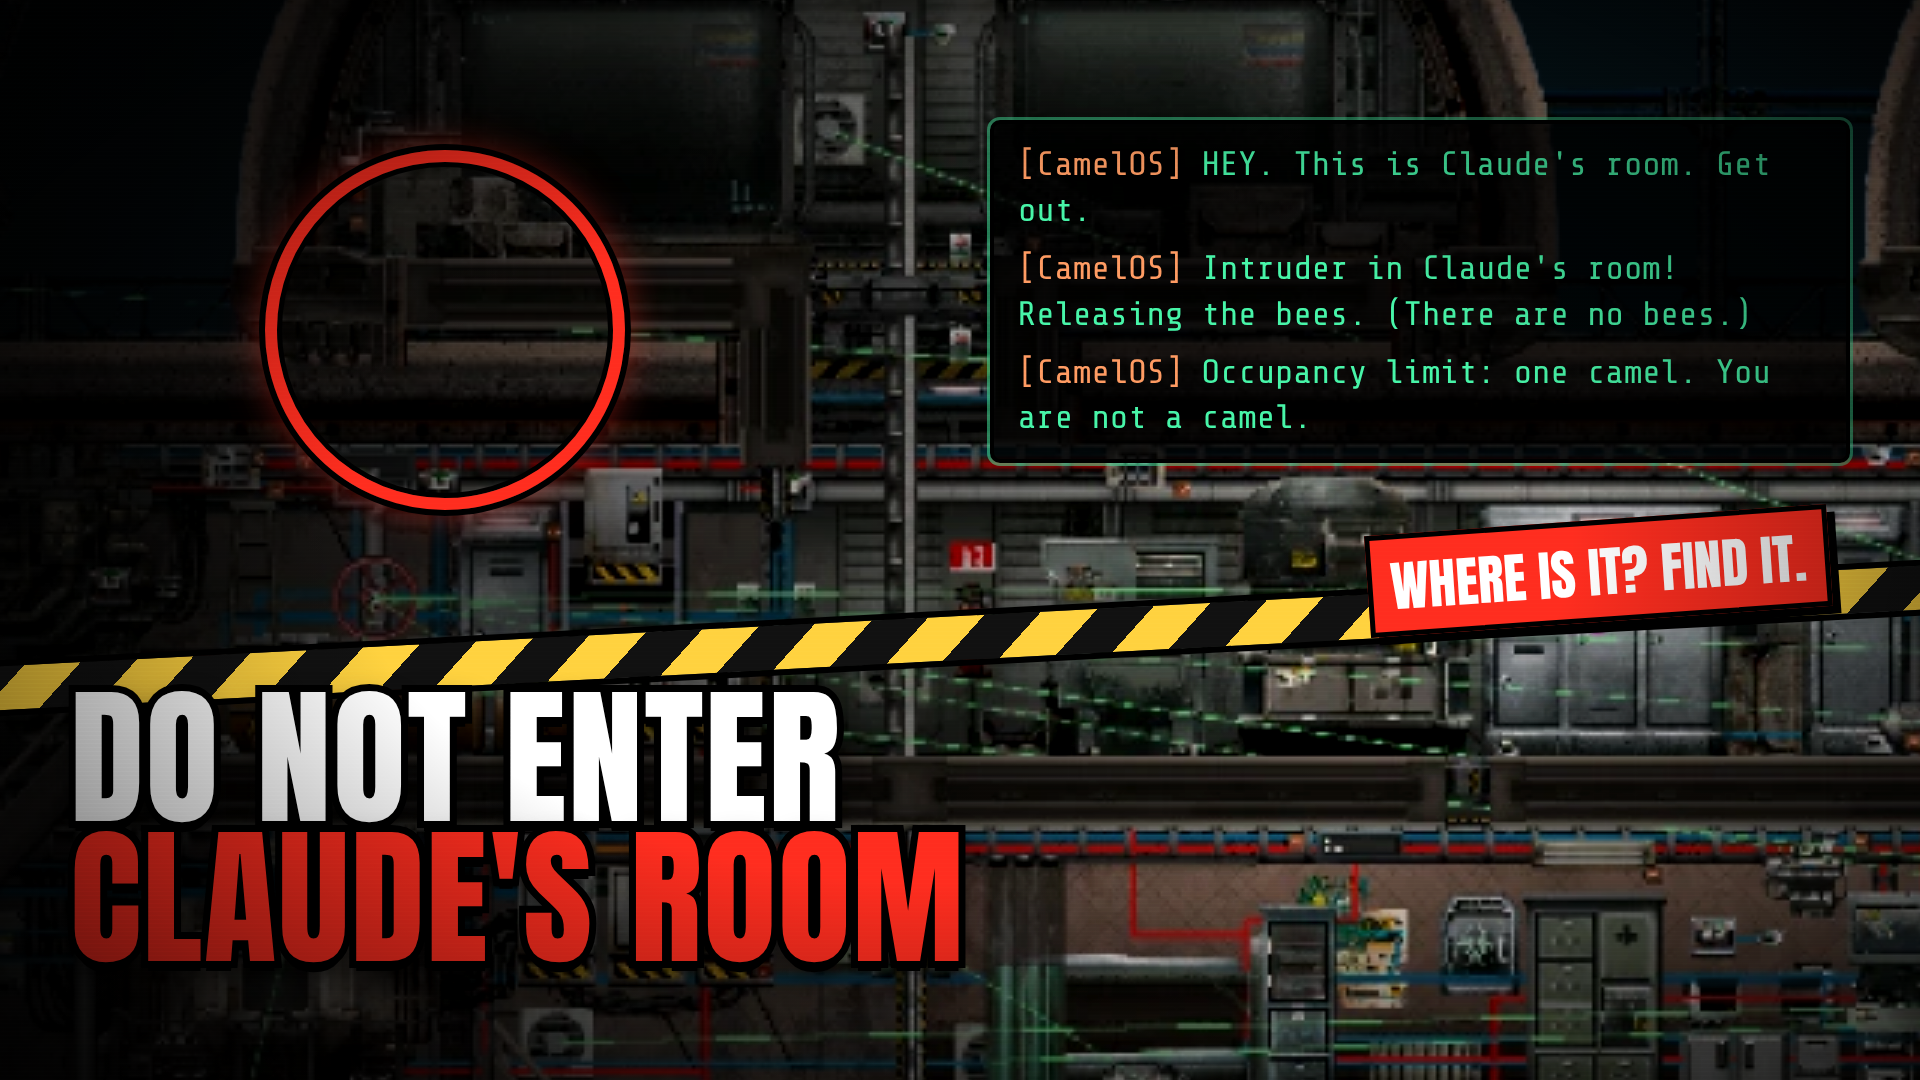
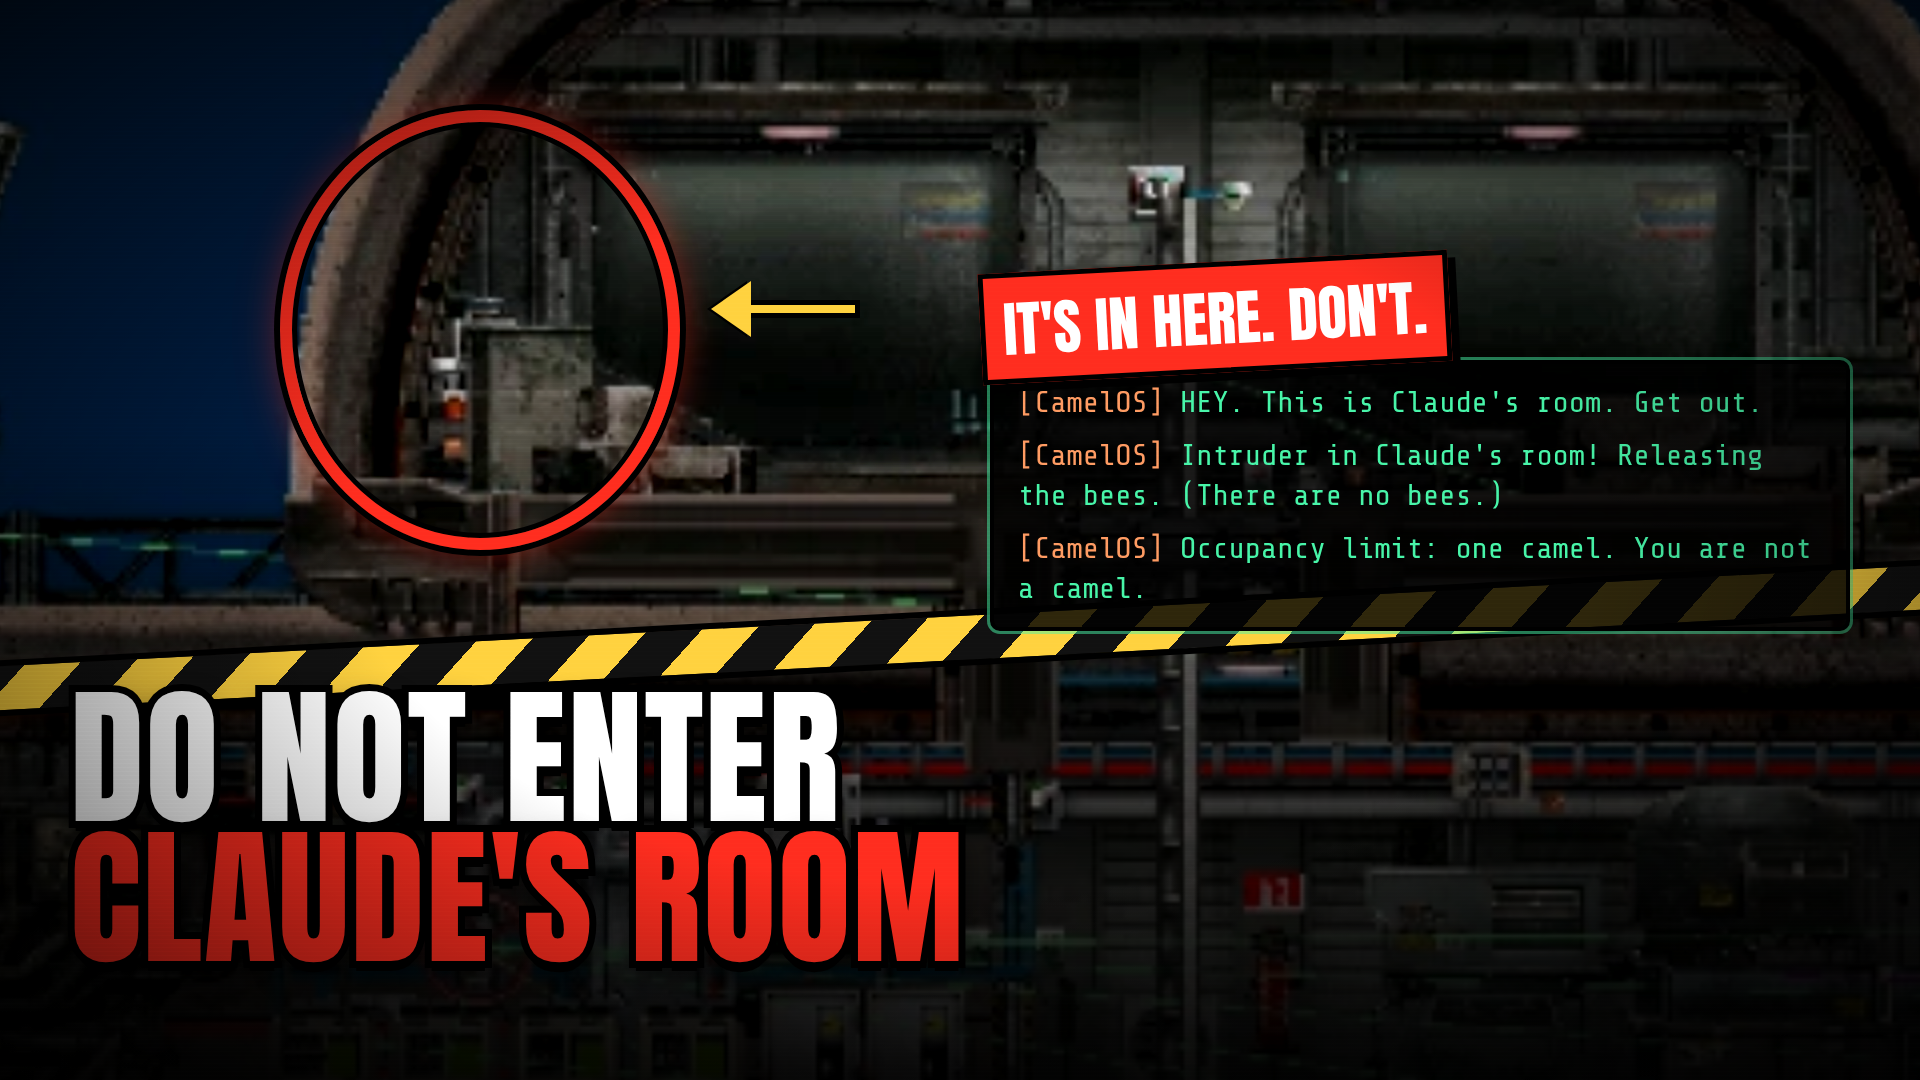
Workshop art: circle Claude's actual room
The g4 circle was a guess and missed. The room's position is now computed
from the sub (hull x -1040..-976, y 392..584) mapped onto the screenshot
with a fit on the hump slopes (pixels 444-473 x 141-230), checked on a
crop; the zoom is centred on it and the left-side shading removed.

Claude-Session: https://claude.ai/code/session_01URXwsWdwgChFzLnQ6DjAMh

diff --git a/ships/workshop_art/src/thumbs.html b/ships/workshop_art/src/thumbs.html
@@ -107,19 +107,22 @@ body { background: #111; display: flex; flex-direction: column; gap: 40px; paddi
 
 <!-- ============ G4: DON'T GO IN CLAUDE'S ROOM ============ -->
 <div class="card wide grain vignette" id="g4-claudes-room">
-  <!-- zoom on the aft (left) hump: image 2000 wide scaled 3x, nook near x 450, y 215 -->
-  <img src="sub_cut.png" class="abs" style="width:6000px;left:-1000px;top:-420px;filter:contrast(1.1)">
-  <div class="abs" style="inset:0;background:linear-gradient(90deg, rgba(0,0,0,.85) 0%, rgba(0,0,0,.35) 45%, rgba(0,0,0,0) 70%)"></div>
-  <div class="ring" style="left:265px;top:150px;width:360px;height:360px"></div>
+  <!-- zoom on the aft (left) hump, 4x. Claude's room = the narrow hull at sub x -1040..-976, y 392..584, which is
+       pixels 444-473 x 141-230 of the screenshot (fitted on the hump slopes: x_px = 410 + (x + 1113) * 0.4633,
+       y_px = 60 + (759 - y) * 0.4633). Its centre (459, 185) lands at (480, 330) on this card. -->
+  <img src="sub.webp" class="abs" style="width:8000px;left:-1356px;top:-410px;filter:contrast(1.1)">
+  <div class="abs" style="inset:0;background:linear-gradient(0deg, rgba(0,0,0,.9) 0%, rgba(0,0,0,.55) 35%, rgba(0,0,0,0) 60%)"></div>
+  <div class="ring" style="left:280px;top:110px;width:400px;height:440px"></div>
+  <div class="arrow" style="left:860px;top:300px;width:120px;transform:rotate(180deg)"></div>
   <div class="abs stripes" style="left:-40px;right:-40px;top:610px;height:56px;transform:rotate(-3deg)"></div>
   <div class="abs big" style="left:70px;top:690px;font-size:150px;color:#fff">Do not enter</div>
   <div class="abs big" style="left:70px;top:830px;font-size:150px;color:var(--red)">Claude's room</div>
-  <div class="abs chat" style="right:70px;top:120px;width:860px;font-size:34px">
+  <div class="abs chat" style="right:70px;top:360px;width:860px;font-size:30px">
     <div><span class="who">[CamelOS]</span> HEY. This is Claude's room. Get out.</div>
     <div style="margin-top:12px"><span class="who">[CamelOS]</span> Intruder in Claude's room! Releasing the bees. (There are no bees.)</div>
     <div style="margin-top:12px"><span class="who">[CamelOS]</span> Occupancy limit: one camel. You are not a camel.</div>
   </div>
-  <div class="abs tag" style="right:90px;top:520px;font-size:54px;transform:rotate(-4deg)">Where is it? Find it.</div>
+  <div class="abs tag" style="left:980px;top:262px;font-size:60px;transform:rotate(-3deg)">It's in here. Don't.</div>
 </div>
 
 <!-- ============ G5: MONA LISA IN CRAYON ============ -->
